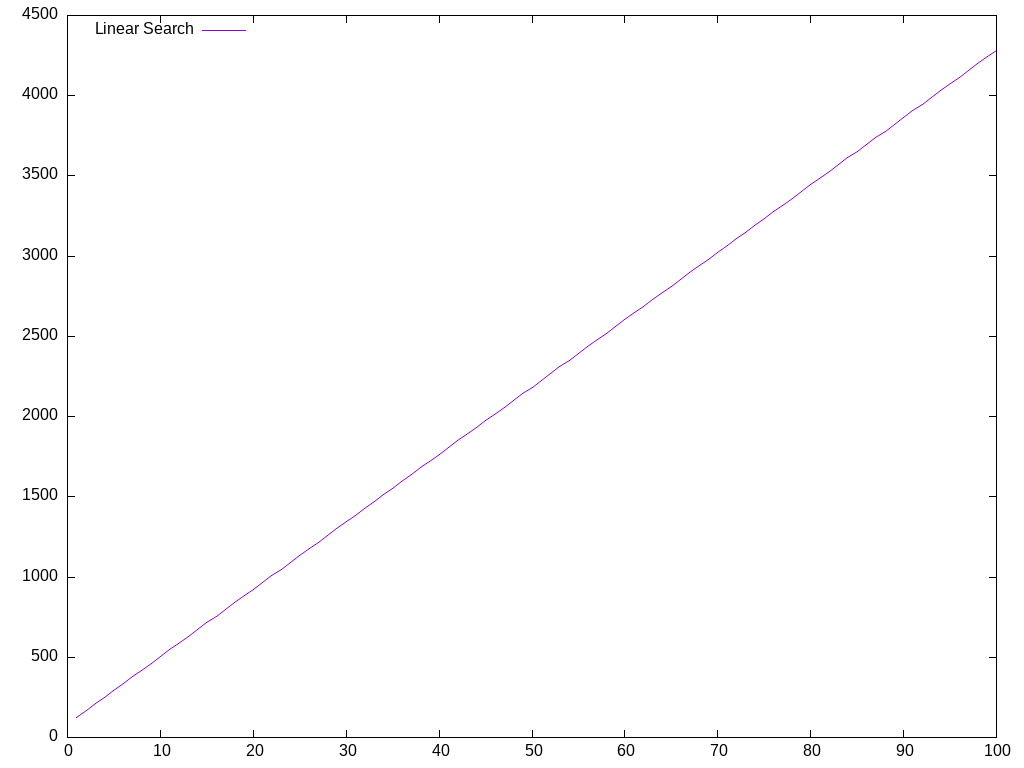
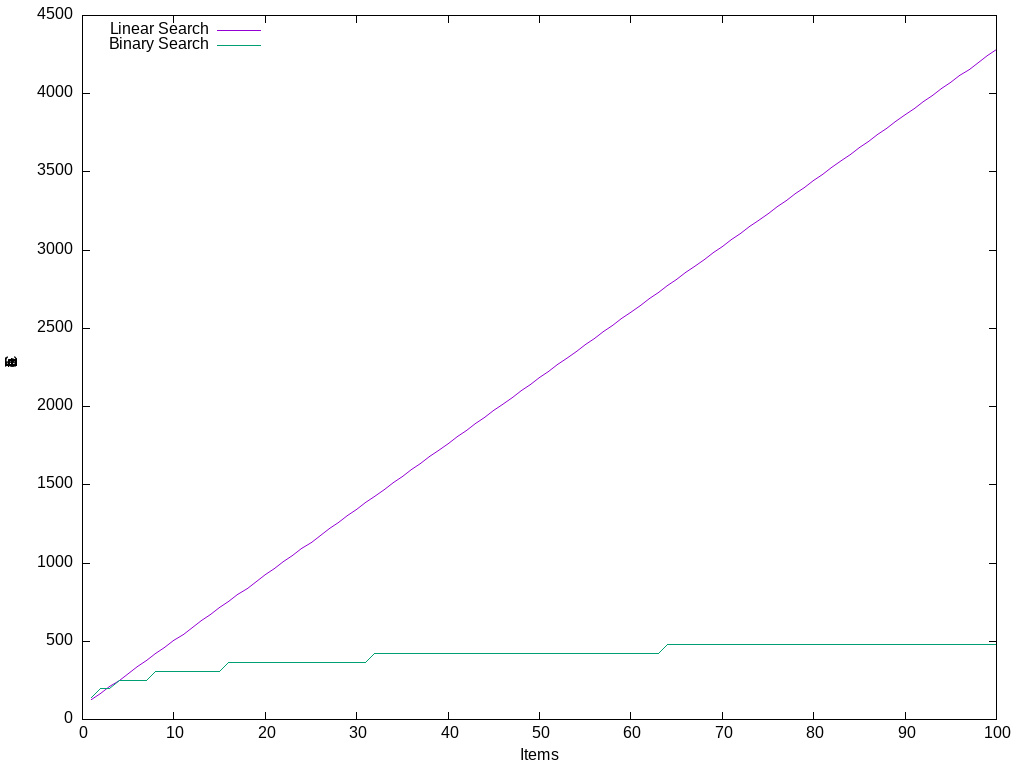
Implement binary search

diff --git a/src/test/unit/binary-search-test.c b/src/test/unit/binary-search-test.c
@@ -1,0 +1,158 @@
+#include <stddef.h>
+#include <stdint.h>
+
+#include "greatest.h"
+
+#include "binary-search.h"
+
+#include "ordering.h"
+#include "result.h"
+
+static const uint32_t ITEMS[]     = { 0, 1, 2, 3, 4, 5, 6, 7, 8, 9 };
+static const uint32_t ITEMS_COUNT = 10;
+static const uint32_t ITEM_SIZE   = sizeof(uint32_t);
+
+#pragma GCC diagnostic push
+#pragma GCC diagnostic ignored "-Wpedantic"
+static const uint32_t         ITEMS_EMPTY[0]       = { };
+static const uint32_t         ITEMS_EMPTY_COUNT    = 0;
+#pragma GCC diagnostic pop
+
+ordering item_compare(const void *item, const void *item_other) {
+    const uint32_t *item_typed       = item;
+    const uint32_t *item_other_typed = item_other;
+
+    if (*item_typed == *item_other_typed) {
+        return EQ;
+    }
+
+    if (*item_typed > *item_other_typed) {
+        return GT;
+    }
+
+    return LT;
+}
+
+TEST binary_search__find___items_is_invalid___result_is_failure_with_items_invalid_error(void) {
+    const uint32_t item = 3;
+
+    const binary_search__item_index_result result = binary_search__find(
+        NULL,
+        ITEMS_COUNT,
+        &item,
+        ITEM_SIZE,
+        &item_compare);
+
+    ASSERT(result__is_failure(result));
+    ASSERT_EQ(ITEMS_INVALID, result__error(result));
+    PASS();
+}
+
+TEST binary_search__find___item_is_invalid___result_is_failure_with_item_invalid_error(void) {
+    const binary_search__item_index_result result = binary_search__find(
+        ITEMS,
+        ITEMS_COUNT,
+        NULL,
+        ITEM_SIZE,
+        &item_compare);
+
+    ASSERT(result__is_failure(result));
+    ASSERT_EQ(ITEM_INVALID, result__error(result));
+    PASS();
+}
+
+TEST binary_search__find___item_size_is_invalid___result_is_failure_with_item_size_invalid_error(void) {
+    const uint32_t item = 3;
+
+    const binary_search__item_index_result result = binary_search__find(
+        ITEMS,
+        ITEMS_COUNT,
+        &item,
+        0,
+        &item_compare);
+
+    ASSERT(result__is_failure(result));
+    ASSERT_EQ(ITEM_SIZE_INVALID, result__error(result));
+    PASS();
+}
+
+TEST binary_search__find___item_compare_is_invalid___result_is_failure_with_item_compare_invalid_error(void) {
+    const uint32_t item = 3;
+
+    const binary_search__item_index_result result = binary_search__find(
+        ITEMS,
+        ITEMS_COUNT,
+        &item,
+        ITEM_SIZE,
+        NULL);
+
+    ASSERT(result__is_failure(result));
+    ASSERT_EQ(ITEM_COMPARE_INVALID, result__error(result));
+    PASS();
+}
+
+TEST binary_search__find___items_is_empty___result_is_failure_with_item_not_found_error(void) {
+    const uint32_t item = 3;
+
+    const binary_search__item_index_result result = binary_search__find(
+        ITEMS_EMPTY,
+        ITEMS_EMPTY_COUNT,
+        &item,
+        ITEM_SIZE,
+        &item_compare);
+
+    ASSERT(result__is_failure(result));
+    ASSERT_EQ(ITEM_NOT_FOUND, result__error(result));
+    PASS();
+}
+
+TEST binary_search__find___item_is_not_found___result_is_failure_with_item_not_found_error(void) {
+    const uint32_t item = 10;
+
+    const binary_search__item_index_result result = binary_search__find(
+        ITEMS,
+        ITEMS_COUNT,
+        &item,
+        ITEM_SIZE,
+        &item_compare);
+
+    ASSERT(result__is_failure(result));
+    ASSERT_EQ(ITEM_NOT_FOUND, result__error(result));
+    PASS();
+}
+
+TEST binary_search__find___item_is_found___result_is_success_with_item_found_index(void) {
+    for (uint32_t item_index = 0; item_index < ITEMS_COUNT; item_index++) {
+        const binary_search__item_index_result result = binary_search__find(
+            ITEMS,
+            ITEMS_COUNT,
+            &ITEMS[item_index],
+            ITEM_SIZE,
+            &item_compare);
+
+        ASSERT(result__is_success(result));
+        ASSERT_EQ(item_index, result__value(result));
+    }
+
+    PASS();
+}
+
+SUITE(binary_search_suite) {
+    RUN_TEST(binary_search__find___items_is_invalid___result_is_failure_with_items_invalid_error);
+    RUN_TEST(binary_search__find___item_is_invalid___result_is_failure_with_item_invalid_error);
+    RUN_TEST(binary_search__find___item_size_is_invalid___result_is_failure_with_item_size_invalid_error);
+    RUN_TEST(binary_search__find___item_compare_is_invalid___result_is_failure_with_item_compare_invalid_error);
+    RUN_TEST(binary_search__find___items_is_empty___result_is_failure_with_item_not_found_error);
+    RUN_TEST(binary_search__find___item_is_not_found___result_is_failure_with_item_not_found_error);
+    RUN_TEST(binary_search__find___item_is_found___result_is_success_with_item_found_index);
+}
+
+GREATEST_MAIN_DEFS();
+
+int main(const int argc, char **argv) {
+    GREATEST_MAIN_BEGIN();
+
+    RUN_SUITE(binary_search_suite);
+
+    GREATEST_MAIN_END();
+}

diff --git a/src/main/binary-search.c b/src/main/binary-search.c
@@ -1,0 +1,61 @@
+#include "binary-search.h"
+
+#include "ordering.h"
+
+#include <stddef.h>
+#include <stdint.h>
+
+binary_search__item_index_result binary_search__find(
+    const void             *items,
+    const uint64_t         items_count,
+    const void             *item,
+    const uint64_t         item_size,
+    const ordering_compare item_compare
+) {
+    if (item_compare == NULL) {
+        return binary_search__item_index_result__failure(ITEM_COMPARE_INVALID);
+    }
+
+    if (items == NULL) {
+        return binary_search__item_index_result__failure(ITEMS_INVALID);
+    }
+
+    if (item_size == 0) {
+        return binary_search__item_index_result__failure(ITEM_SIZE_INVALID);
+    }
+
+    if (item == NULL) {
+        return binary_search__item_index_result__failure(ITEM_INVALID);
+    }
+
+    if (items_count == 0) {
+        return binary_search__item_index_result__failure(ITEM_NOT_FOUND);
+    }
+
+    const uint8_t *items_octets = items;
+
+    uint64_t item_index_min = 0;
+    uint64_t item_index_max = items_count - 1;
+
+    while (item_index_min <= item_index_max) {
+        const uint64_t item_index_mid = item_index_min + ((item_index_max - item_index_min) / 2);
+
+        const void *item_mid = items_octets + (item_size * item_index_mid);
+
+        const ordering ordering = item_compare(item, item_mid);
+
+        if (ordering == EQ) {
+            return binary_search__item_index_result__success(item_index_mid);
+        }
+
+        if (ordering == GT) {
+            item_index_min = item_index_mid + 1;
+        }
+
+        if (ordering == LT) {
+            item_index_max = item_index_mid - 1;
+        }
+    }
+
+    return binary_search__item_index_result__failure(ITEM_NOT_FOUND);
+}

diff --git a/src/test/perf/binary-search-test.c b/src/test/perf/binary-search-test.c
@@ -1,0 +1,48 @@
+#include <assert.h>
+#include <stdint.h>
+#include <stdlib.h>
+#include <valgrind/callgrind.h>
+
+#include "binary-search.h"
+
+#include "ordering.h"
+#include "result.h"
+
+ordering item_compare(const void *item, const void *item_other) {
+    const uint64_t *item_typed       = item;
+    const uint64_t *item_other_typed = item_other;
+
+    if (*item_typed == *item_other_typed) {
+        return EQ;
+    }
+
+    if (*item_typed > *item_other_typed) {
+        return GT;
+    }
+
+    return LT;
+}
+
+int main(__attribute__((unused)) int argc, char **argv) {
+    const uint64_t items_count = strtol(argv[1], NULL, 10);
+    const uint64_t item_size   = sizeof(uint64_t);
+    const uint64_t item        = items_count - 1;
+
+    uint64_t *items = malloc(items_count * item_size);
+
+    for (uint64_t item_index = 0; item_index < items_count; item_index++) {
+        items[item_index] = item_index;
+    }
+
+    CALLGRIND_START_INSTRUMENTATION;
+    CALLGRIND_TOGGLE_COLLECT;
+
+    binary_search__item_index_result result = binary_search__find(items, items_count, &item, item_size, &item_compare);
+
+    assert(result__is_success(result));
+
+    CALLGRIND_TOGGLE_COLLECT;
+    CALLGRIND_STOP_INSTRUMENTATION;
+
+    free(items);
+}

diff --git a/src/main/binary-search.h b/src/main/binary-search.h
@@ -1,0 +1,29 @@
+#ifndef BINARY_SEARCH_
+#define BINARY_SEARCH_
+
+#include <stdint.h>
+
+#include "ordering.h"
+#include "result.h"
+
+enum binary_search__error {
+    ITEMS_INVALID,
+    ITEM_COMPARE_INVALID,
+    ITEM_INVALID,
+    ITEM_NOT_FOUND,
+    ITEM_SIZE_INVALID
+};
+
+typedef enum binary_search__error binary_search__error;
+
+result(binary_search__item_index, uint64_t, binary_search__error)
+
+binary_search__item_index_result binary_search__find(
+    const void       *items,
+    uint64_t         items_count,
+    const void       *item,
+    uint64_t         item_size,
+    ordering_compare item_compare
+);
+
+#endif // BINARY_SEARCH_

diff --git a/README.md b/README.md
@@ -1,0 +1,20 @@
+<p align="center">
+    <img src="resource/al-khwarizmi.png" alt="al-Khwarizmi" width= "256" />
+</p>
+
+# al-Khwarizmi
+
+The project's name is a tribute to [Muḥammad ibn Mūsā al-Khwārizmī](https://en.wikipedia.org/wiki/Muhammad_ibn_Musa_al-Khwarizmi), whose name gave rise to the word algorithm.
+Is the code worthy of a tribute? I will let you judge.
+
+This project is an implementation, in C, of the most basic algorithms.
+
+# Costs
+
+<p align="center">
+    <img src="resource/search.png" alt="Search Chart" width="800" />
+</p>
+
+# Credits
+
+By Unknown Author - http://www.muslimheritage.com/topics/default.cfm?ArticleID=631, [1], Public Domain, https://commons.wikimedia.org/w/index.php?curid=2652443
